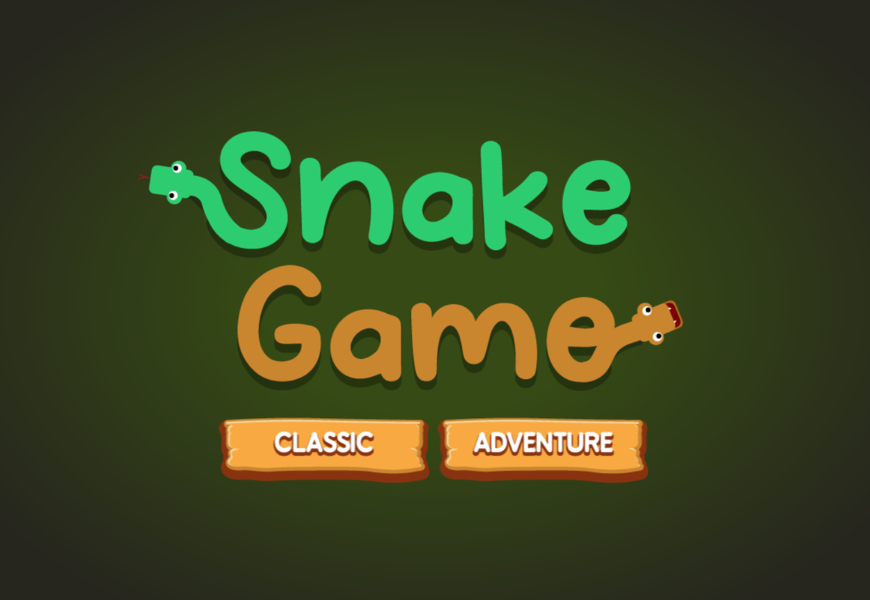
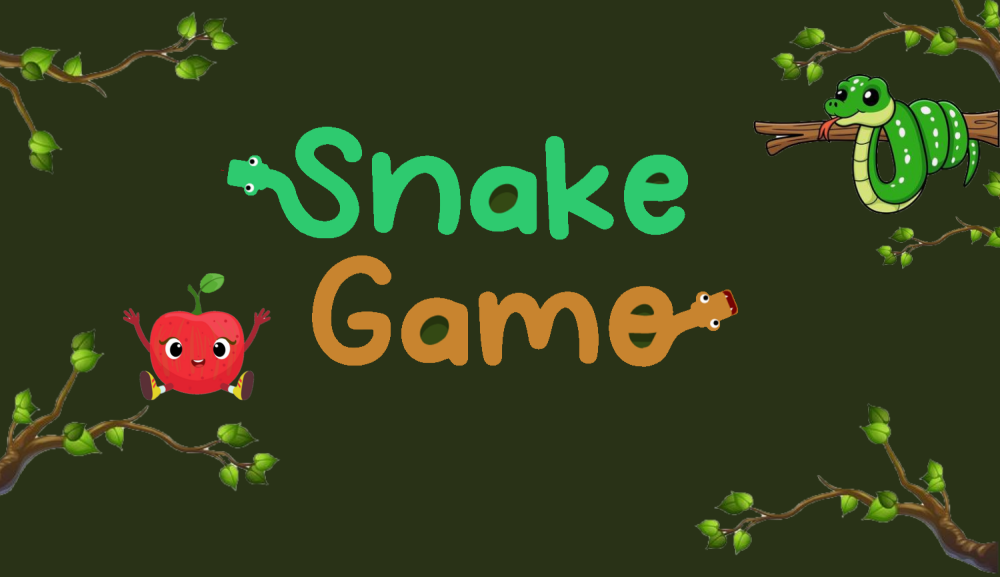
final commit

diff --git a/src/StartFrame.java b/src/StartFrame.java
@@ -7,10 +7,11 @@ import java.io.File;
 import java.io.IOException;
 public class StartFrame extends JFrame {
     public StartFrame() {
-        addLabel();
         addButton();
+        addLabel();
+
         this.setDefaultCloseOperation(EXIT_ON_CLOSE);
-        this.setPreferredSize(new Dimension(870,600));
+        this.setPreferredSize(new Dimension(1000,577));
         this.setLayout(null);
         this.setResizable(false);
         this.setTitle("Snake Game");
@@ -21,11 +22,11 @@ public class StartFrame extends JFrame {
         this.setIconImage(logo.getImage());
     }
     public void addButton(){
-        JButton startButton=new JButton("CLASSIC");
+        JButton startButton = new JButton("CLASSIC");
         startButton.setFont(new Font("MV Boli", Font.BOLD, 30));
-        startButton.setForeground(Color.white);
-        startButton.setBackground(new Color(0xF8A942));
-        startButton.setBounds(218, 416, 210, 67);
+        startButton.setForeground(new Color(0x350E00));
+        startButton.setBackground(new Color(0xC8842F));
+        startButton.setBounds(293, 416, 220, 50);
         startButton.addActionListener(new ActionListener() {
             @Override
             public void actionPerformed(ActionEvent e) {
@@ -47,9 +48,9 @@ public class StartFrame extends JFrame {
 
         JButton adventureButton=new JButton("ADVENTURE");
         adventureButton.setFont(new Font("MV Boli", Font.BOLD, 30));
-        adventureButton.setForeground(Color.white);
-        adventureButton.setBackground(new Color(0xF8A942));
-        adventureButton.setBounds(435, 416, 270, 67);
+        adventureButton.setForeground(new Color(0x350E00));
+        adventureButton.setBackground(new Color(0xC8842F));
+        adventureButton.setBounds(550, 416, 220,50 );
         adventureButton.addActionListener(new ActionListener() {
             @Override
             public void actionPerformed(ActionEvent e) {
@@ -77,7 +78,7 @@ public class StartFrame extends JFrame {
         JLabel label=new JLabel();
         ImageIcon icon=new ImageIcon("src/resources/start.png");
         label.setIcon(icon);
-        label.setBounds(0,0,870,600);
+        label.setBounds(0,0,1000,577);
         label.setVisible(true);
         this.add(label);
     }
